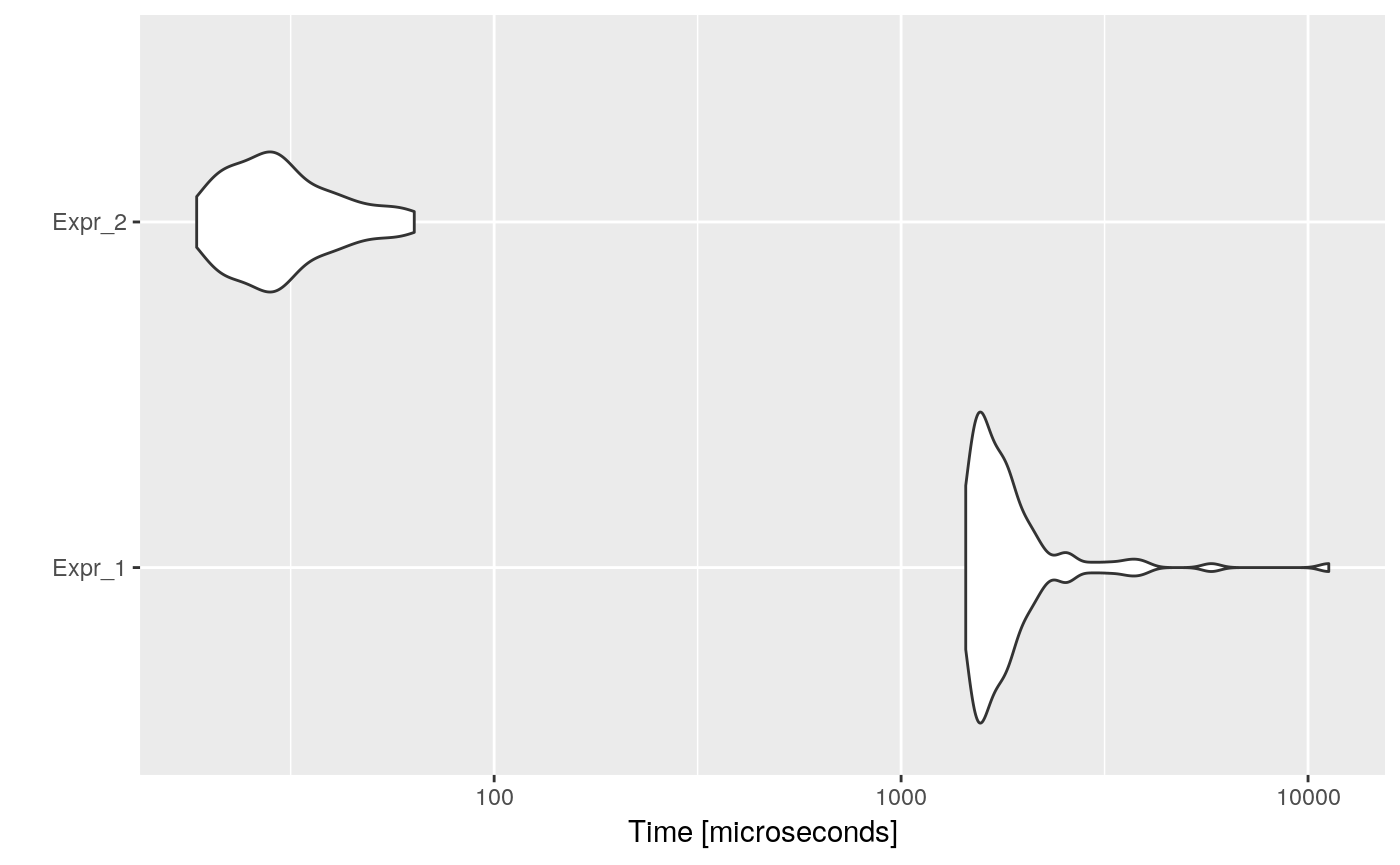
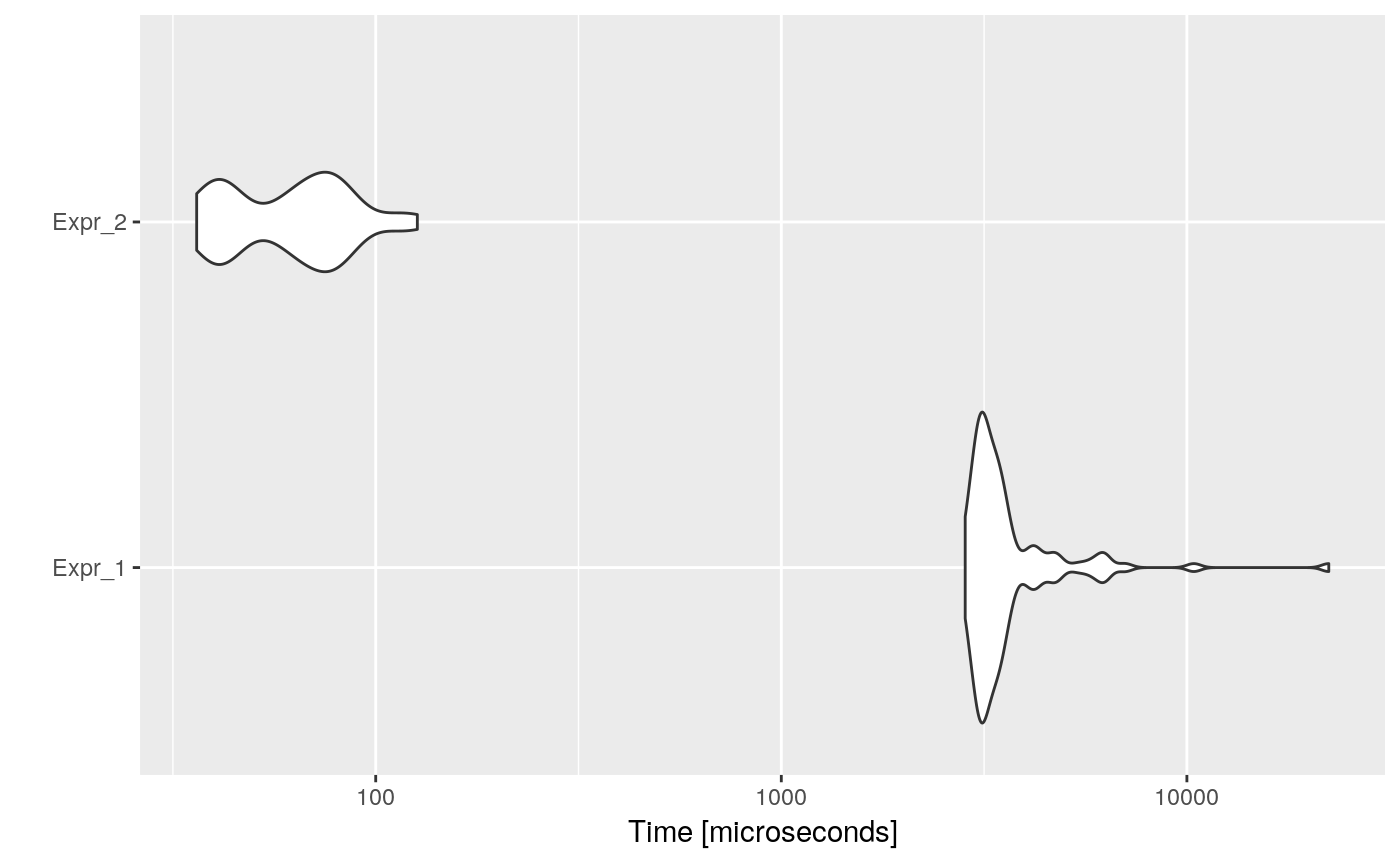
Little fixing in Docker R script file

diff --git a/docs/articles/docker-readme.html b/docs/articles/docker-readme.html
@@ -122,15 +122,15 @@
 <h2 class="hasAnchor">
 <a href="#usage" class="anchor"></a>Usage</h2>
 <p>The docker image basic usage will optimize a random CRAN package, this is done with:</p>
-<div class="sourceCode" id="cb2"><pre class="sourceCode bash"><code class="sourceCode bash"><a class="sourceLine" id="cb2-1" data-line-number="1"><span class="ex">docker</span> run rco</a></code></pre></div>
+<div class="sourceCode" id="cb2"><pre class="sourceCode bash"><code class="sourceCode bash"><a class="sourceLine" id="cb2-1" data-line-number="1"><span class="ex">docker</span> run jcrodriguez1989/rco</a></code></pre></div>
 <p>We can also specify a package to optimize, using the <code>RCO_PKG</code> environment variable, for example, if we want to optimize the <code>rflights</code> package:</p>
-<div class="sourceCode" id="cb3"><pre class="sourceCode bash"><code class="sourceCode bash"><a class="sourceLine" id="cb3-1" data-line-number="1"><span class="ex">docker</span> run -e RCO_PKG=rflights rco</a></code></pre></div>
+<div class="sourceCode" id="cb3"><pre class="sourceCode bash"><code class="sourceCode bash"><a class="sourceLine" id="cb3-1" data-line-number="1"><span class="ex">docker</span> run -e RCO_PKG=rflights jcrodriguez1989/rco</a></code></pre></div>
 <p>Also, if we want to get the resulting optimized files we can set a docker shared folder, with:</p>
 <div class="sourceCode" id="cb4"><pre class="sourceCode bash"><code class="sourceCode bash"><a class="sourceLine" id="cb4-1" data-line-number="1"><span class="co"># Replace DEST_FOLDER path, with your desired output path</span></a>
 <a class="sourceLine" id="cb4-2" data-line-number="2"><span class="va">DEST_FOLDER=</span>/tmp/rco_dock_res</a>
-<a class="sourceLine" id="cb4-3" data-line-number="3"><span class="ex">docker</span> run -v <span class="va">$DEST_FOLDER</span>:/rco_results rco</a></code></pre></div>
+<a class="sourceLine" id="cb4-3" data-line-number="3"><span class="ex">docker</span> run -v <span class="va">$DEST_FOLDER</span>:/rco_results jcrodriguez1989/rco</a></code></pre></div>
 <p>In summary, if we want to optimize the <code>rflights</code> package and save its results, we can do:</p>
-<div class="sourceCode" id="cb5"><pre class="sourceCode bash"><code class="sourceCode bash"><a class="sourceLine" id="cb5-1" data-line-number="1"><span class="ex">docker</span> run -e RCO_PKG=rflights -v <span class="va">$DEST_FOLDER</span>:/rco_results rco</a></code></pre></div>
+<div class="sourceCode" id="cb5"><pre class="sourceCode bash"><code class="sourceCode bash"><a class="sourceLine" id="cb5-1" data-line-number="1"><span class="ex">docker</span> run -e RCO_PKG=rflights -v <span class="va">$DEST_FOLDER</span>:/rco_results jcrodriguez1989/rco</a></code></pre></div>
 <p>And in the <code>DEST_FOLDER</code> we will have files as:</p>
 <div class="sourceCode" id="cb6"><pre class="sourceCode bash"><code class="sourceCode bash"><a class="sourceLine" id="cb6-1" data-line-number="1"><span class="fu">ls</span> <span class="va">$DEST_FOLDER</span></a>
 <a class="sourceLine" id="cb6-2" data-line-number="2"><span class="co">## rflights  rflights_0.1.0.tar.gz  rflights_opt</span></a></code></pre></div>

diff --git a/docs/articles/opt-constant-folding.html b/docs/articles/opt-constant-folding.html
@@ -157,8 +157,8 @@
 <a class="sourceLine" id="cb5-6" data-line-number="6"><span class="kw">autoplot</span>(bmark_res)</a></code></pre></div>
 <p><img src="opt-constant-folding_files/figure-html/unnamed-chunk-4-1.png" width="700"></p>
 <div class="sourceCode" id="cb6"><pre class="sourceCode r"><code class="sourceCode r"><a class="sourceLine" id="cb6-1" data-line-number="1"><span class="kw">speed_up</span>(bmark_res)</a></code></pre></div>
-<pre><code>##            Min.  1st Qu.   Median     Mean  3rd Qu.    Max.
-## Expr_2 29.32265 27.50634 27.41973 31.23052 27.69184 114.065</code></pre>
+<pre><code>##            Min.  1st Qu.   Median     Mean  3rd Qu.     Max.
+## Expr_2 30.79361 31.98388 28.70189 31.37005 30.81576 88.90365</code></pre>
 </div>
 <div id="implementation" class="section level2">
 <h2 class="hasAnchor">

diff --git a/docs/articles/opt-dead-code.html b/docs/articles/opt-dead-code.html
@@ -192,8 +192,8 @@
 <a class="sourceLine" id="cb9-6" data-line-number="6"><span class="kw">autoplot</span>(bmark_res)</a></code></pre></div>
 <p><img src="opt-dead-code_files/figure-html/unnamed-chunk-8-1.png" width="700"></p>
 <div class="sourceCode" id="cb10"><pre class="sourceCode r"><code class="sourceCode r"><a class="sourceLine" id="cb10-1" data-line-number="1"><span class="kw">speed_up</span>(bmark_res)</a></code></pre></div>
-<pre><code>##            Min.  1st Qu.   Median     Mean  3rd Qu.     Max.
-## Expr_2 77.59285 66.16355 58.47014 62.48912 52.36018 176.7046</code></pre>
+<pre><code>##            Min.  1st Qu.   Median    Mean 3rd Qu.     Max.
+## Expr_2 78.49195 71.91335 50.63674 59.4062 45.5107 176.6765</code></pre>
 </div>
 <div id="implementation" class="section level2">
 <h2 class="hasAnchor">

diff --git a/docs/articles/opt-constant-propagation.html b/docs/articles/opt-constant-propagation.html
@@ -176,7 +176,7 @@
 <p><img src="opt-constant-propagation_files/figure-html/unnamed-chunk-6-1.png" width="700"></p>
 <div class="sourceCode" id="cb8"><pre class="sourceCode r"><code class="sourceCode r"><a class="sourceLine" id="cb8-1" data-line-number="1"><span class="kw">speed_up</span>(bmark_res)</a></code></pre></div>
 <pre><code>##            Min.  1st Qu.   Median     Mean  3rd Qu.     Max.
-## Expr_2 28.37935 26.20674 25.67065 27.93286 25.71455 75.49599</code></pre>
+## Expr_2 27.93898 27.96549 25.02073 28.29527 26.93726 74.47167</code></pre>
 </div>
 <div id="implementation" class="section level2">
 <h2 class="hasAnchor">

diff --git a/Docker/README.md b/Docker/README.md
@@ -23,7 +23,7 @@ The docker image basic usage will optimize a random CRAN package, this
 is done with:
 
 ``` bash
-docker run rco
+docker run jcrodriguez1989/rco
 ```
 
 We can also specify a package to optimize, using the `RCO_PKG`
@@ -31,7 +31,7 @@ environment variable, for example, if we want to optimize the `rflights`
 package:
 
 ``` bash
-docker run -e RCO_PKG=rflights rco
+docker run -e RCO_PKG=rflights jcrodriguez1989/rco
 ```
 
 Also, if we want to get the resulting optimized files we can set a
@@ -40,14 +40,15 @@ docker shared folder, with:
 ``` bash
 # Replace DEST_FOLDER path, with your desired output path
 DEST_FOLDER=/tmp/rco_dock_res
-docker run -v $DEST_FOLDER:/rco_results rco
+docker run -v $DEST_FOLDER:/rco_results jcrodriguez1989/rco
 ```
 
 In summary, if we want to optimize the `rflights` package and save its
-results, we can do:
+results, we can
+do:
 
 ``` bash
-docker run -e RCO_PKG=rflights -v $DEST_FOLDER:/rco_results rco
+docker run -e RCO_PKG=rflights -v $DEST_FOLDER:/rco_results jcrodriguez1989/rco
 ```
 
 And in the `DEST_FOLDER` we will have files as:
